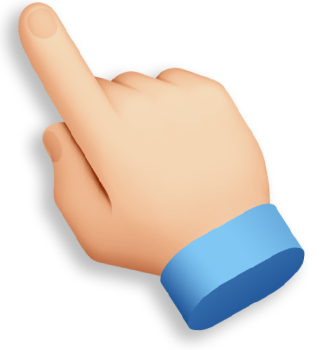
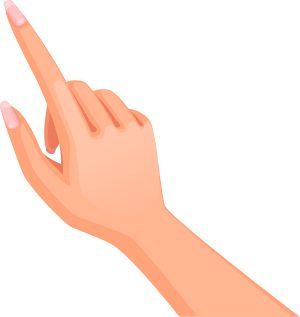
Sounds and hint hand update.

diff --git a/src/SoundController.ts b/src/SoundController.ts
@@ -1,14 +1,18 @@
 import { lego } from '@armathai/lego';
 import { Howl } from 'howler';
 
-import { KeyboardEvents } from './events/MainEvents';
+import { BoardEvents, KeyboardEvents } from './events/MainEvents';
 import { GameModelEvents } from './events/ModelEvents';
+import { GameState } from './models/GameModel';
 
 const click =
[1 lines of base64/hex data omitted]
 
-const correct =
[1 lines of base64/hex data omitted]
+const correctWord =
[1 lines of base64/hex data omitted]
+
+const correctCard =
[1 lines of base64/hex data omitted]
 
 const wrong =
[1 lines of base64/hex data omitted]
@@ -18,26 +22,36 @@ class SoundControl {
         this.sounds = {};
         lego.event
             .on(KeyboardEvents.KeyClicked, this.playClick, this)
-            .on(GameModelEvents.WrongsUpdate, this.playWrong, this)
-            .on(GameModelEvents.RightsUpdate, this.playRight, this);
+            .on(BoardEvents.CardClick, this.playClick, this)
+            .on(GameModelEvents.StateUpdate, this.onGameStateUpdate, this);
     }
 
     public loadSounds(): void {
         this.sounds.click = new Howl({ src: click });
         this.sounds.wrong = new Howl({ src: wrong });
-        this.sounds.correct = new Howl({ src: correct });
+        this.sounds.correctWord = new Howl({ src: correctWord });
+        this.sounds.correctCard = new Howl({ src: correctCard });
     }
 
     private playClick(): void {
         this.sounds.click.play();
     }
 
-    private playWrong(): void {
-        this.sounds.wrong.play();
-    }
+    private onGameStateUpdate(state: GameState): void {
+        switch (state) {
+            case GameState.RightAnswer:
+                this.sounds.correctWord.play();
+                break;
+            case GameState.WrongAnswer:
+                this.sounds.wrong.play();
+                break;
+            case GameState.Completed:
+                this.sounds.correctCard.play();
+                break;
 
-    private playRight(): void {
-        this.sounds.correct.play();
+            default:
+                break;
+        }
     }
 }
 

diff --git a/src/configs/Commands.ts b/src/configs/Commands.ts
@@ -372,5 +372,5 @@ export const resizeCommand = (): void => {
 
 export const takeToStoreCommand = (): void => {
     // TODO после окончания игры все клики идут сюда
-    // console.warn(' TAKE ME TO STORE');
+    console.warn(' TAKE ME TO STORE');
 };

diff --git a/src/views/HintView.ts b/src/views/HintView.ts
@@ -45,7 +45,7 @@ export class HintView extends Container {
 
     private build(): void {
         this.hand = makeSprite({ texture: Images['game/hand'] });
-        this.hand.anchor.set(0.1, 0);
+        this.hand.anchor.set(0);
         this.addChild(this.hand);
     }
 
